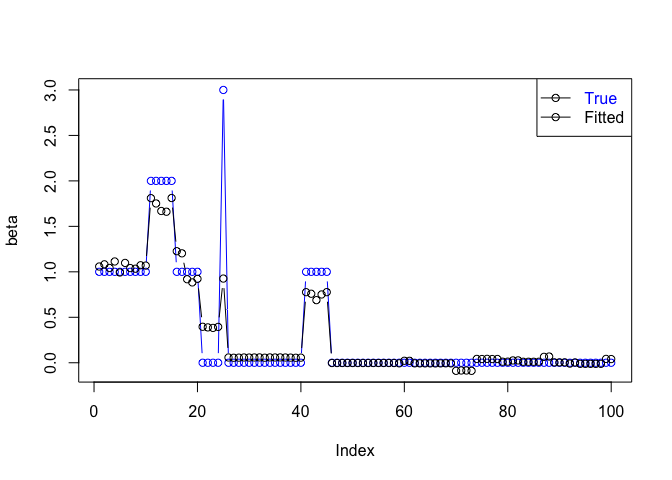
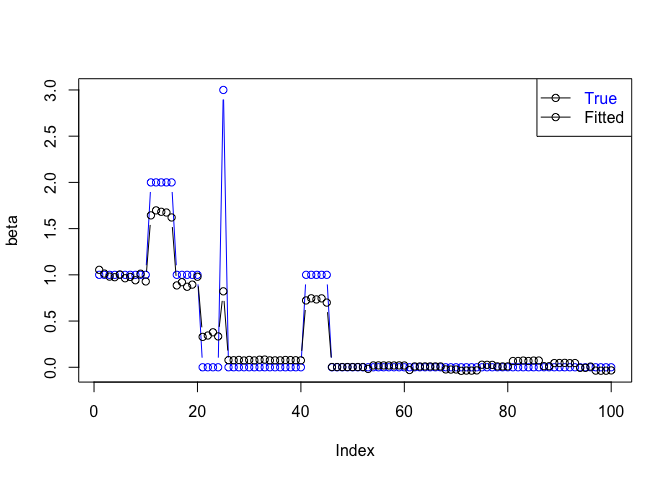
Modify ebic functions.

diff --git a/README.md b/README.md
@@ -30,10 +30,10 @@ p=100
 # 2. Generate data. -------------------------------------------------------
 
 beta=rep(0,p)
-beta[1:20]=1
-beta[11:15]=2
-beta[25]=3
-beta[41:45]=1
+beta[ 1:20]  = 1
+beta[11:15]  = 2
+beta[25]     = 3
+beta[41:45 ] = 1
 x=matrix(rnorm(n*p),n,p)
 y=x%*%beta+rnorm(n,0,0.5)
 
@@ -44,7 +44,8 @@ gamma2=0.5
 
 # 4. Execute --------------------------------------------------------------
 
-mod <- negfl(x, y, lambda2=lambda2, gamma2=gamma2)
+mod <- negfl(x, y, lambda2=lambda2, gamma2=gamma2, maxiter=5e3, burnin=2e3)
+ic <- ebic(x, y, mod$beta, mod$sigma2)
 
 plot(beta,col="blue",type="b",pch=1,ylim=range(beta, mod$beta))
 lines(mod$beta, type="b",lty=1,col="black")
